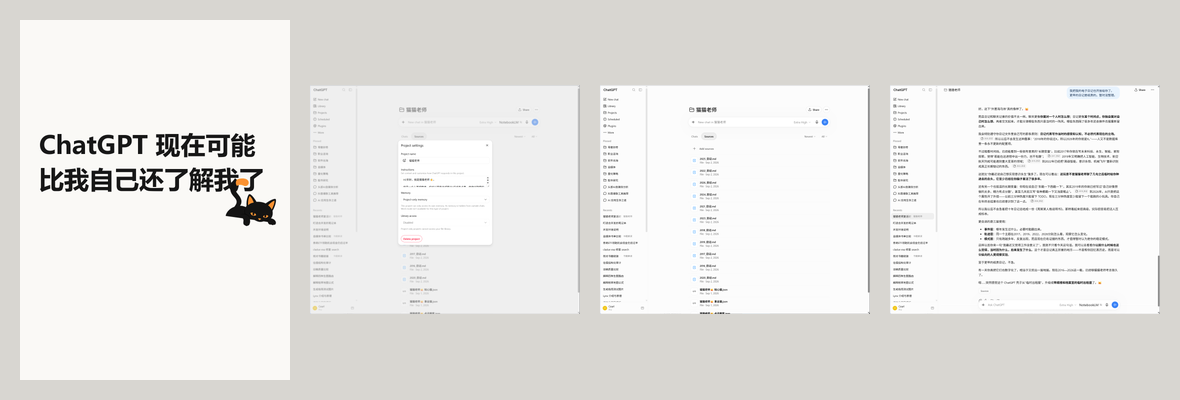
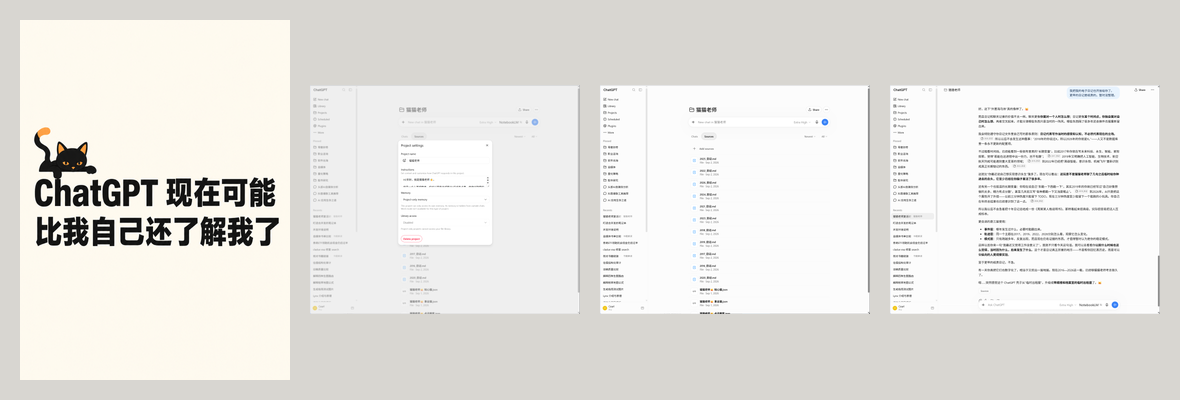
改用模型整图生成猫猫老师封面

Changed region(s): [[0.0305, 0.3, 0.2441, 0.63]]

diff --git a/topics/20260902-cat-teacher-chatgpt-migration/image-post/source/render_images.py b/topics/20260902-cat-teacher-chatgpt-migration/image-post/source/render_images.py
@@ -1,43 +1,17 @@
 from pathlib import Path
 
-from PIL import Image, ImageDraw, ImageFont
+from PIL import Image
 
 
 ROOT = Path(r"D:\code\content\topics\20260902-cat-teacher-chatgpt-migration")
 OUT = ROOT / "image-post" / "images"
 SOURCE = ROOT / "image-post" / "source"
-MARK = ROOT / "image-post" / "source" / "model-generated" / "cat-teacher-ip-cute-v1.png"
+MODEL_COVER = SOURCE / "model-generated" / "cover-integrated-v1.png"
 W, H = 1080, 1440
 
-PAPER = "#FAF9F6"
-INK = "#171717"
-FONT_BOLD = r"C:\Windows\Fonts\msyhbd.ttc"
-
-
 def render_cover():
-    cover = Image.new("RGB", (W, H), PAPER)
-    draw = ImageDraw.Draw(cover)
-
-    title_font = ImageFont.truetype(FONT_BOLD, 100)
-    lines = ["ChatGPT 现在可能", "比我自己还了解我了"]
-    title_x = 76
-    title_y = 430
-    line_gap = 44
-    line_height = title_font.getbbox("猫")[3] - title_font.getbbox("猫")[1]
-
-    for index, line in enumerate(lines):
-        y = title_y + index * (line_height + line_gap)
-        draw.text((title_x, y), line, fill=INK, font=title_font)
-
-    ledge_y = title_y + 2 * line_height + line_gap + 94
-
-    mark = Image.open(MARK).convert("RGBA")
-    alpha_box = mark.getchannel("A").getbbox()
-    mark = mark.crop(alpha_box)
-    mark.thumbnail((215, 215), Image.Resampling.LANCZOS)
-    mark = mark.rotate(-8, resample=Image.Resampling.BICUBIC, expand=True)
-    cover.paste(mark, (808, ledge_y - 132), mark)
-
+    cover = Image.open(MODEL_COVER).convert("RGB")
+    cover = cover.resize((W, H), Image.Resampling.LANCZOS)
     OUT.mkdir(parents=True, exist_ok=True)
     cover.save(OUT / "01-chatgpt-knows-me.png")
 

diff --git a/topics/20260902-cat-teacher-chatgpt-migration/image-post/image-plan.md b/topics/20260902-cat-teacher-chatgpt-migration/image-post/image-plan.md
@@ -4,7 +4,7 @@
 
 4 张。
 
-第 1 张用意外判断制造停留，猫猫老师只作为标题旁的小视觉签名。后面三张直接使用真实截图，依次展示项目配置、十年日记资料和实际分析回复。不再制作拼贴图、关系图或概念说明图。
+第 1 张用意外判断制造停留，标题与猫猫老师由图片模型作为一张完整画面共同生成。后面三张直接使用真实截图，依次展示项目配置、十年日记资料和实际分析回复。不再制作拼贴图、关系图或概念说明图。
 
 ## 第 1 张
 
@@ -20,19 +20,19 @@ ChatGPT 现在可能
 
 ### 方向 A
 
-标题左对齐、两行同字号同字重，占据画面的主要视觉面积。猫猫老师变成趴在标题边缘的小挂件，轻微倾斜，只露出猫、垂下的爪子和弯起的橙色尾尖。
+标题左对齐、两行同字号同字重，占据画面的主要视觉面积。猫猫老师趴在第一行左上方，身体压在文字上沿，两只爪子自然垂到字面前方，猫与标题由模型整图生成。
 
 ### 方向 B
 
-标题居中铺开，小猫从第二行末尾探出，不增加其他图形。
+标题保持居中，小猫缩到左下角并趴在画面底部，身体由地面支撑，不接触标题。
 
 ### 选择
 
-选择方向 A。标题是绝对主体，小猫依附在第二行文字的下缘，不再单独占据一个区域。左对齐的大字在缩略图下更容易扫读，挂件式小猫也比完整 Logo 更像一个可以长期变化的角色。
+选择方向 A。猫的趴姿天然需要支撑，让它直接趴在 `ChatGPT` 的文字上沿，比悬在句尾或另加一条托线自然。整图生成也让猫、文字和留白从一开始就是同一个构图，不再出现后期拼贴感。
 
 ### IP 形象
 
-长期母题仍是一只猫穿过聊天框，橙色尾尖作为识别点。封面这次不完整展示母标，而是使用一个更轻的角色变体：黑猫趴在文字边缘，两只爪子垂下来，尾巴向上弯起。它保留炭黑轮廓、橙色耳朵和尾尖，但不再承担解释概念的任务。
+长期母题仍是一只猫穿过聊天框，橙色尾尖作为识别点。封面这次不完整展示母标，而是让同一只黑猫自然趴在标题左上方。它保留炭黑轮廓、橙色耳朵和尾尖，但只作为标题旁的角色，不承担解释概念的任务。
 
 ### 删除测试
 
@@ -62,5 +62,5 @@ ChatGPT 现在可能
 - 第 2 至 4 张保留用户原始截图尺寸与界面，不生成或复刻 ChatGPT UI。
 - 封面不加入答案、方法清单、作者名、Logo、页码或系列名。
 - IP 形象避免机器人、芯片、霓虹蓝、博士帽、眼镜、书本和普通猫爪 Logo。
-- 270×360 缩略图下，封面可以完整读出标题；小猫只需看出猫、垂爪和橙色尾尖，不要求读出完整母标。
+- 270×360 缩略图下，封面可以完整读出标题；小猫能看出趴在第一行文字上，垂爪与橙色尾尖仍可识别。
 - 发布前由用户再次确认截图侧栏、账号名称与其他任务名是否可以公开。

diff --git a/topics/20260902-cat-teacher-chatgpt-migration/image-post/source/model-generated/cat-teacher-ip-design.md b/topics/20260902-cat-teacher-chatgpt-migration/image-post/source/model-generated/cat-teacher-ip-design.md
@@ -27,6 +27,33 @@
 - 继承：保留黑色主体、橙色耳朵与橙色尾尖，让它能和完整母标互相认出来。
 - 变化：去掉聊天框和穿框动作，让这张封面先读文字，再偶然发现猫。
 
+## 整图生成版本
+
+- 文件：`cover-integrated-v1.png`
+- 参考：完整母标负责角色身份，小变体负责趴姿。
+- 构图：标题是绝对主体；猫趴在第一行左上方，身体由字面支撑，两只爪子自然垂下。
+- 结果：模型一次生成猫、标题与留白，不再把透明角色素材后期贴到文字附近。
+
+### 整图提示词
+
+```text
+Use case: ads-marketing
+Asset type: complete Xiaohongshu image-post cover, generated as one integrated composition rather than separate elements pasted together
+Canvas: portrait 3:4, intended final delivery 1080 × 1440; must remain readable at 270 × 360
+Input images: Image 1 is the established 猫猫老师 mascot identity reference; preserve its charcoal-black silhouette language, calm intelligent expression, warm orange inner ears and signature orange tail tip. Image 2 is a pose reference only: a cat resting with its front paws hanging down.
+Primary request: create a minimal editorial cover where the text is unquestionably the main subject. Integrate a small cute variant of the referenced black cat naturally into the upper-left edge of the title. The cat is physically supported: its torso rests on the top edge of the first text line and both paws visibly drape over that edge. It must not float in empty space. The cat should feel like it belongs to the typography, not like a separate logo pasted above it.
+Scene/backdrop: warm off-white empty background with generous breathing room
+Visual structure: one bold two-line title, left aligned, occupying most of the visual weight; the small cat rests naturally at the upper-left of the first line. No other visual blocks or explanation.
+Reading path: title first, cat discovered second
+Text (verbatim, exactly these two lines):
+“ChatGPT 现在可能”
+“比我自己还了解我了”
+Typography: very large heavy sans-serif, charcoal black, both lines identical font size and weight; the word ChatGPT must be fully visible and prominent; preserve every Chinese character exactly; no extra text
+Color palette: warm off-white, charcoal black, very small amount of warm orange only on the cat
+Constraints: generate the entire cover as one coherent image; cat small and secondary; clear believable contact/support between cat and title; clean normal anatomy; no floating pose; no watermark
+Avoid: marketing poster styling, AI-tech aesthetics, neon blue, gradients, glows, circuits, robot cat, cards, frames, speech bubbles, decorative icons, random lines, author name, page number, logo showcase, shadows, 3D, anime, chibi, clutter, misspelled Chinese, missing characters, extra characters
+```
+
 ### 小变体提示词
 
 ```text

diff --git a/topics/20260902-cat-teacher-chatgpt-migration/topic.md b/topics/20260902-cat-teacher-chatgpt-migration/topic.md
@@ -14,9 +14,9 @@
 
 - 小红书标题：ChatGPT 现在可能比我自己还了解我了
 - 首图主句：ChatGPT 现在可能比我自己还了解我了
-- 首图策略：完整钩子作为绝对主体，猫猫老师以贴在文字边缘的可爱小变体出现，不提前放答案
+- 首图策略：完整钩子作为绝对主体，猫猫老师自然趴在第一行文字上，猫与标题由模型整图生成，不提前放答案
 - 实际图片数：4 张
-- 生产方式：IP 形象封面加三张原始截图
+- 生产方式：模型整图封面加三张原始截图
 
 ## 图片顺序
 
